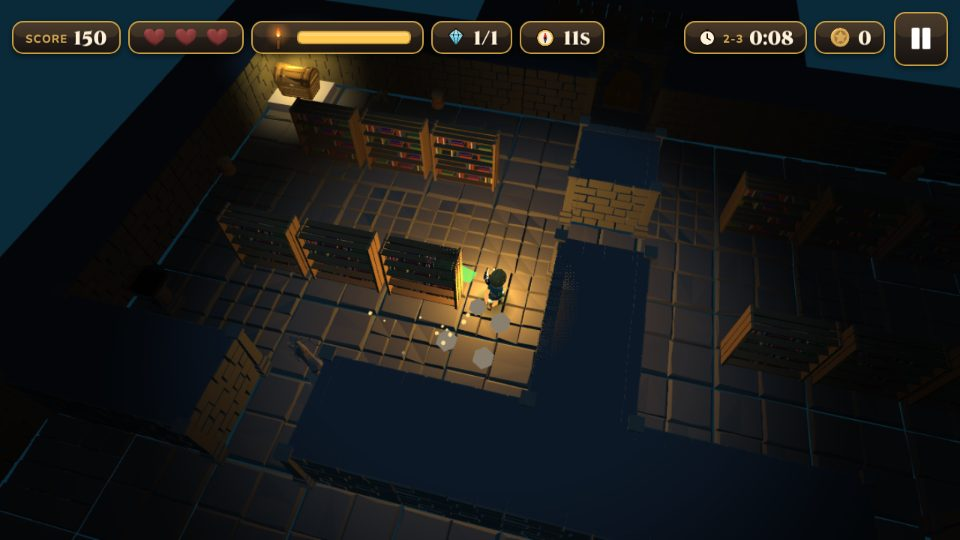
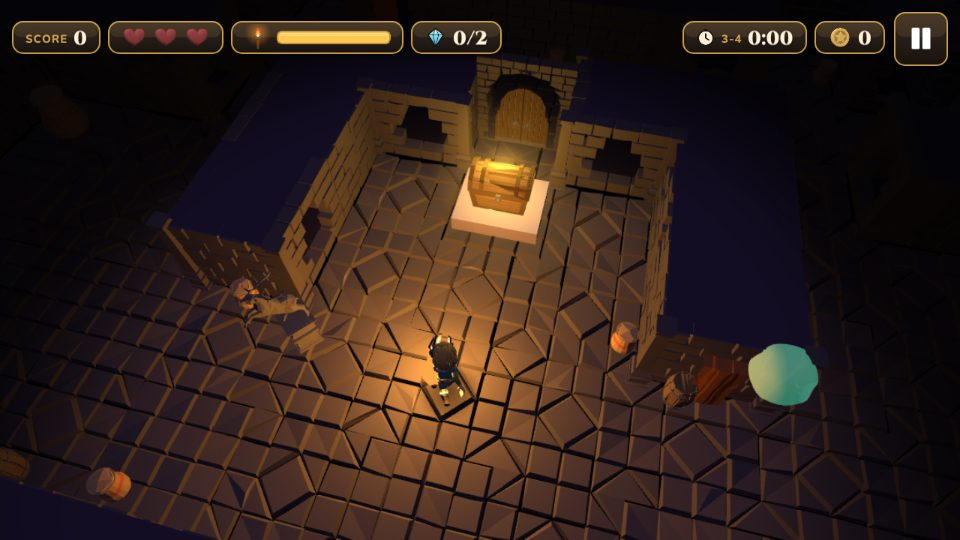
Relic Ruins 1.1.1: store art retaken, portrait cards for phones
The old frame stood at the edge of the Stacks (2-3) with the void beyond the
map in its top-left corner. The cards, screenshot, icon, thumbnail and cover
now show the heart of the Deep Hall (3-4): the hero walking up to the glowing
relic in its alcove, the stag guardian and a wisp beside him, walls and floor
at every edge. New portrait cards (EN/TR, 360x640 and 720x1280) from the
phone run; the manifest and the catalog entry list them.

Claude-Session: https://claude.ai/code/session_0175vXZr811A8hQZq6oHnsLr

diff --git a/platform/arcade-catalog.ts b/platform/arcade-catalog.ts
@@ -37,6 +37,8 @@ type ArcadeEntry = Pick<
      * invites) with that many seats, bots only at three or four.
      */
     multiplayer?: boolean | number;
+    /** An adaptive game with portrait card art for phones (`cardPortrait`, `cardPortrait2x`). */
+    portraitCards?: boolean;
   };
 
 function arcadeGame({
@@ -44,6 +46,7 @@ function arcadeGame({
   addedAt,
   featured,
   multiplayer,
+  portraitCards,
   ageRating,
   scoring,
   version,
@@ -77,6 +80,18 @@ function arcadeGame({
           en: `/games/${slug}/ayvago/card-1280x720.webp`,
           tr: `/games/${slug}/ayvago/card-tr-1280x720.webp`,
         },
+        ...(portraitCards
+          ? {
+              cardPortrait: {
+                en: `/games/${slug}/ayvago/card-portrait-360x640.webp`,
+                tr: `/games/${slug}/ayvago/card-portrait-tr-360x640.webp`,
+              },
+              cardPortrait2x: {
+                en: `/games/${slug}/ayvago/card-portrait-720x1280.webp`,
+                tr: `/games/${slug}/ayvago/card-portrait-tr-720x1280.webp`,
+              },
+            }
+          : {}),
         logo: { en: `/games/${slug}/ayvago/logo-en.png`, tr: `/games/${slug}/ayvago/logo-tr.png` },
       },
       version: version ?? '1.0.0',
@@ -1070,8 +1085,9 @@ export const ARCADE_GAMES: SeedGame[] = [
     tags: ['relic', 'ruins', 'retro'],
     orientation: 'any',
     input: ['touch', 'keyboard', 'gamepad', 'mouse'],
-    version: '1.1.0',
+    version: '1.1.1',
     addedAt: '2026-11-24',
+    portraitCards: true,
   }),
   arcadeGame({
     slug: 'retro-snake',

diff --git a/docs/GAMES.md b/docs/GAMES.md
@@ -91,6 +91,7 @@ air-hockey, alien-invaders, archery, asteroid-storm, astro-crew, axe-throw, back
 - **Trap Trail / Tuzak Parkuru (2026-11-24):** a 3D obstacle-course platformer over floating sky islands (landscape, 1280 × 720: the third-person view needs the width for traps that cross the path from the sides, and the two thumbs get the stick and the JUMP / DASH buttons), on a new import, the Quaternius Ultimate Platformer Pack (CC0, the owner-shared Google Drive folder; `public/assets/quaternius/ultimate-platformer-pack`, with `games/trap-trail/import-pack.mjs`: the static models (level and mechanics, modular platform tiles, cubes, nature, pickups from FBX) baked to vertex colours, split into parts by bone where the original is rigged, simplified and quantized into one `platformer.glb`, and the Character and four enemies as their own skinned GLB files with only the clips the game plays; plus a 16-icon HUD sheet rendered from the models by `make-icons.mjs`). **The hero is the pack's own Character with its own clips (hero from the owner-supplied pack, by the owner's request), not the player's platform character.** **The course:** twenty stages in four worlds (Meadow Isles, Canyon Fort, Frost Peaks, Storm Keep), written in `levels.ts` from course segments (`builder.ts`): islands tiled from the pack's modular platform pieces, spinning and sliding saws, spike traps that rise on a rhythm (they peek and their square flashes first), spike runs, crushing pillars, spiked logs rolling down lanes, cannons, bombs with lit fuses, pipes dropping bombs, swinging spiked balls, orbiting spiky balls, springs, moving and crumbling floes, ice, bridges, planks, stairs, levers that open gates, keys and chests, "?" blocks bumped from below, numbered checkpoints and the goal flag (the last stage ends on the tower). **Enemies** from the pack, each with its own clips and a telegraph: the crab patrols sideways, the skull hops after the hero, the horned gob roars (a red arrow) and charges, the bee buzzes (a red arrow) and swoops; a stomp beats them all. **Feel:** coyote time, a jump buffer, variable jump height, an air dash, step-up on low ledges, squash and stretch, a blob shadow, dust and sparks, hit-stop, shake, half-heart damage with knockback and blinking i-frames, a fall back to the last checkpoint; a follow camera that never loses the hero. **Powers:** Thunder (fast, unhurtable, breaks what it touches), Shield, Magnet, Spring (higher jumps, one more in the air). **Progression:** the trail map (worlds as tabs, best stars and time per stage, par times), coins, gems and three stars per stage, and a shop between stages with six upgrades (hearts, double jump, dash, magnet, Thunder time, starting shield). **Score** over a run of stages (coins, gems, enemies, broken traps, clear, stars, time under par, no-hit bonus); a lost run may continue once after a rewarded ad (full hearts on the last checkpoint), and the run's coins may be doubled. Easy / Normal side by side in `TUNING` (`defs.ts`). Theme: Baloo 2 over island-slice boards with grass caps, toy-painted buttons and navy HUD chips; the map, shop and summary are painted under the intro. The menu's backdrop is the autopilot (`bot.ts`, waypoints left by the course writer) running Saw Meadow; the same bot clears all twenty stages in tests and drives the store art.
 - **Relic Ruins / Kadim Harabeler (2026-11-24):** a torch-lit 3D exploration and puzzle adventure (portrait at first; adaptive since 1.1, see below) on a new import, the Quaternius Ultimate Modular Ruins Pack (August 2021, CC0, the owner-shared Google Drive folder; `public/assets/quaternius/ultimate-modular-ruins-pack`, with `games/relic-ruins/import-pack.mjs`: 40 of the pack's 92 FBX files (44 until 1.1) read with three.js's FBXLoader, colours into the vertices, flat-shaded without normals, simplified and quantized into one `ruins.glb` of 286 KB (318 KB until 1.1) with the door leaves, chest lids and flames as their own parts, and the pack's animated rogue as `hero.glb`, 225 KB, written by three.js's GLTFExporter and trimmed to ten clips). **The hero is the pack's own Character_Animated with its own clips (hero from the owner-supplied pack, by the owner's request, as in Trap Trail), not the player's platform character**; he carries the pack's wall torch in his left hand and every move is one of his clips (Walk and Run tied to the speed, Walk slowed for pushing and pulling, Roll for ACT with nothing near, PickUp for the relic, Punch for pots, Dagger_Attack thrusts the torch at candles and sconces, Dagger_Attack2 pulls levers and throws flares, RecieveHit, Death). **The loop:** twenty hand-built ruins (`levels.ts`, one character per 2 m cell, an optional height map) in four realms with their own light and palette: find the relic (the pack's golden chest on a dais, opened with ACT: the lid swings up, a gem rises in a light burst) and walk out through the exit gate, which opens only once the relic is carried. The torch burns down (a little faster in each realm); its light radius shrinks with it in the shaders (a soft-edged darkness round the hero and every lit fire, the rest of the ruin dim but readable) and a point light follows its flame; braziers are checkpoints that refill it, lit sconces warm it, and when it dies the hero has a few seconds of grace to reach a light before losing a heart and waking at the last brazier. **One new idea every few ruins, one hint each:** Overgrown Courtyard (torch and braziers, pots, crates and statues pushed or pulled onto pressure plates, levers, keys and locked doors, a crate pushed into a shaft as a bridge, the first escape), Sunken Library (bookcases that slide to secret rooms, candles that must all burn at once to open a sealed door, guardian statues, flooded halls with bridges and a heavy statue, an escape), Shadow Halls (bear traps that snap and hold, passed along the tile's edge or with Ghost Step; trapdoors that open on a rhythm and rattle first; marked sconces that all open a sealed door; everything together; an escape over trapdoors), Crumbling Citadel (cracked floors that fall away a moment after a step, carts that roll along their rails into a chasm and bridge it, stairs up to raised walks with balustrades and bridges over the keep's pit, a ruin with everything, the last escape). (Realm and ruin names as of 1.1.) The fifth ruin of every realm is an escape: once the relic is lifted the floor cracks and falls in from the relic outwards (a collapse clock in the HUD), bricks drop round the hero on red rings, and a fall puts him back just ahead of the front. **Creatures** held back by light: shades (the Ultimate Platformer Pack's gob, already in the repository, tinted dusk-violet) chase but crawl in a strong light and never enter a lit fire's warmth; wisps (its skull, glowing) circle at the edge of the light and dive when the torch is weak; guardian statues (this pack's stag) move only while they are in the dark and not faced. Contact costs half a heart with knock-back and blinking i-frames; a flare stuns everything near and lights the room; no combat. **Powers:** Flare (carried, up to three), Lantern Oil, Swift Boots, Compass (a floor arrow to the relic, the exit, or a gem close by), Ghost Step. **Camp** between ruins (six upgrades with ranks: Big Reservoir, Slow Wick, Stout Heart, Long Stride, Lasting Powers, Spare Flare); **stars** per ruin (the relic, every hidden gem, under par), coins from pots and the floor, best stars and times on the ruin map (realms as tabs). **Score** over a run of ruins (coins, gems, pots, the relic, the clear bonus by realm, stars, time under par, unharmed); a lost run may continue once after a rewarded ad (full hearts and torch at the last brazier) and the run's coins may be doubled. Easy / Normal side by side in `TUNING` (`defs.ts`: 5 hearts instead of 3, a third slower torch, 72 % creature speed, longer candles, a slower collapse, softer falls). **Look:** walls on the pack's grid (each piece faces its floor with its thickness inside the block, the pack's turn rule), dark wall tops, columns at every corner, arches round every door, overgrowth on the courtyard's walls; walls between the camera and the hero are dithered away in a soft tube (a shader patch shared with the darkness); flames, glows, embers, dust from grinding doors and pushed crates, rubble from falling floors, idle glints, footsteps, hit-stop and shake. Theme: Cinzel in torch gold over sandstone slabs with a gold meander frieze, ivy and corner rosettes, stone buttons (amber-gilt and verdigris), pale tablets for the cards and a wall torch in each screen corner; the map, camp and level-clear card are painted under the intro. The rules are a pure simulation (`sim.ts`) shared by an autopilot (`bot.ts`: a plan per ruin, Dijkstra between its steps, round bear traps along the tile's edge, onto trapdoors only when they stay shut, braziers when the torch runs low, flares at creatures) that drives the menu's backdrop and the store art and clears all twenty ruins on Normal and Easy without god mode in `balance.ts`. Each level is a few merged chunks (frustum-culled) plus instanced floors and props: about 25–40 draw calls and up to about 100k triangles in the busiest rooms, no shadow maps (blob shadows, six point lights).
 - **Relic Ruins 1.1 (2026-11-25):** owner requests. **Adaptive orientation, the first adaptive game** (`"orientation": "adaptive"`, the new rule for every game: landscape 1280 × 720 on desktops and tablets, portrait 720 × 1280 on phones, `isPhone()` in the core, platform manifest `any`): landscape has one row of HUD chips (the torch and the readouts after the hearts, the level or collapse clock left of the coins), the ruin map's board on the left with the chosen ruin turning on the right (clear of the pause button), the camp in two columns of three tiles, a wide level-clear card (stars and score left, the lines right), banners in the band above the hero and toasts below him, the camera 20 % closer (the frame shows the ruin's whole width), and ACT and FLARE on any touch screen (a tablet plays landscape with them); portrait is unchanged. **Nothing religious** (owner request): the third and fourth realms are now the Shadow Halls (Gölge Salonları) and the Crumbling Citadel (Çöken Kale), and nine ruins have new names: Candle Watch, Pillar Gallery (Sütun Galerisi), Lamp Room (Kandil Odası), The Deep Hall (Derin Salon), Halls Cave-in (Salonlar Göçüyor), The Keep (İç Kale), Tower Stairs (Kule Merdivenleri), The Ramparts (Surlar) and Citadel Fall (Kalenin Çöküşü); the puzzle sconces are "marked sconces" and a sealed door "slides open". The pack's pointed-arch wall, double doors and window are gone from `ruins.glb` (locked doors and the exit gate use the round-arch leaves, tinted iron and gold), and so is the skull prop (the Halls' floors carry pots, rubble and barrels).
+- **Relic Ruins 1.1.1 (2026-11-25):** store art retaken (owner request): the old frame stood at the edge of the Stacks (2-3) with the void beyond the map in its top-left corner; the cards, screenshot, icon and cover now show the heart of the Deep Hall (3-4), the hero walking up to the glowing relic with the stag guardian and a wisp beside him, under a staged camera at the game's tilt with walls and floor at every edge; and, as the first adaptive game, it has the new portrait cards for phones (`card-portrait-*`, manifest `cardPortrait` / `cardPortrait2x`) from its phone run.
 
 **Easy / Normal difficulty** (protocol 2.6, §7c of the new-game skill; Easy runs are practice and stay off the leaderboards): 53 games: air-hockey, alien-invaders, asteroid-storm, astro-crew, backgammon, blacktop-kings, bug-blaster, city-defender, coaster-rush, connect-four, crypt-crawler, crystal-keep, delivery-dash, dots-and-boxes, dungeon-dash, golden-podium, gomoku, head-soccer, hex-bridge, hex-realm, kickflip-park, last-convoy, light-cycles, mangala, marble-maze, mud-rally, neon-pong, neon-ronin, nine-mens-morris, okey, pirate-cove, putt-park, relic-ruins, reversi, rooftop-courier, sea-battle, skull-isle, snack-shack, snow-express, space-blaster, star-squadron, strike-alley, sumo-push, sushi-rush, tank-arena, tito-tank, tower-defense, traffic-racer, trap-trail, turkish-draughts, ultimate-tictactoe, zombie-grove, zombie-survivor.
 
